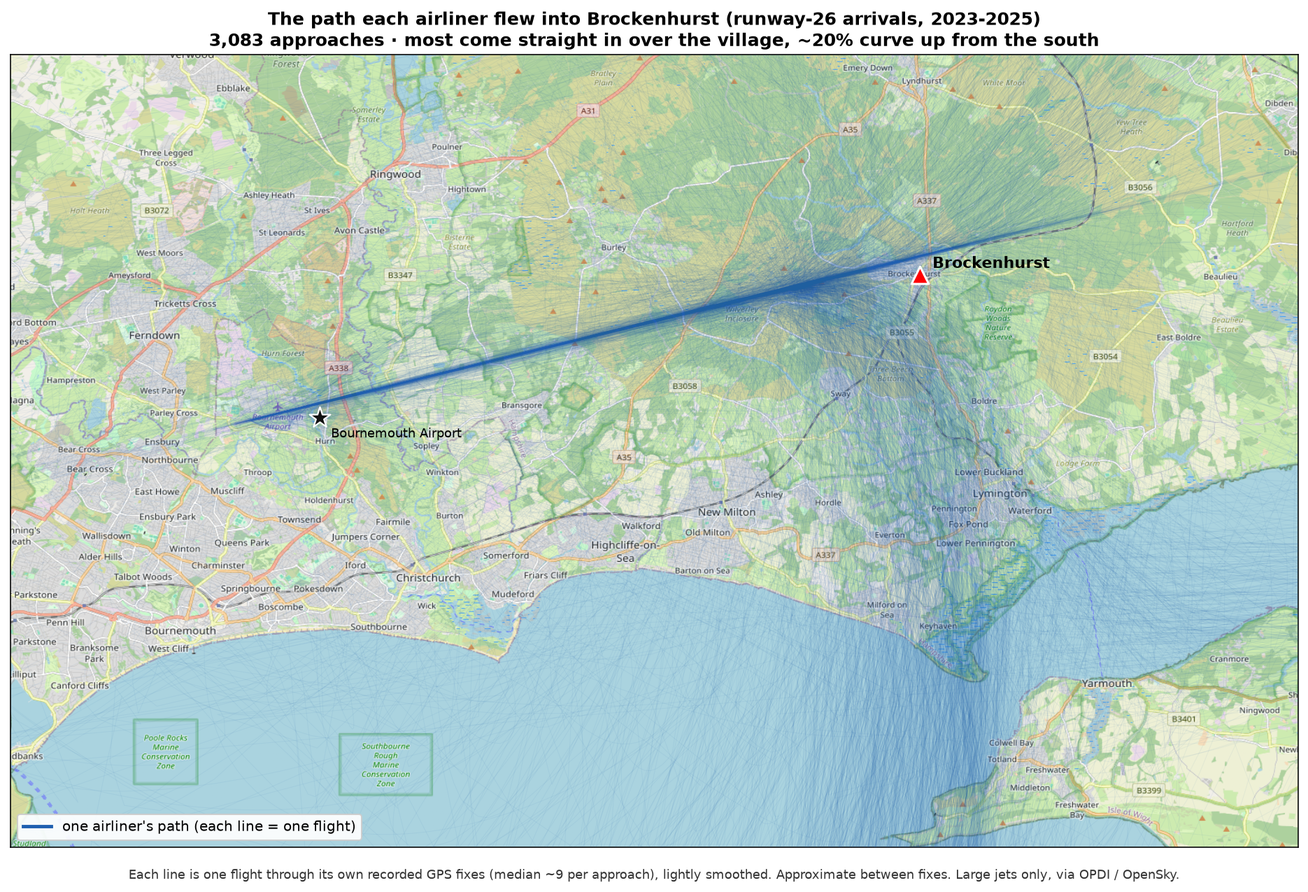
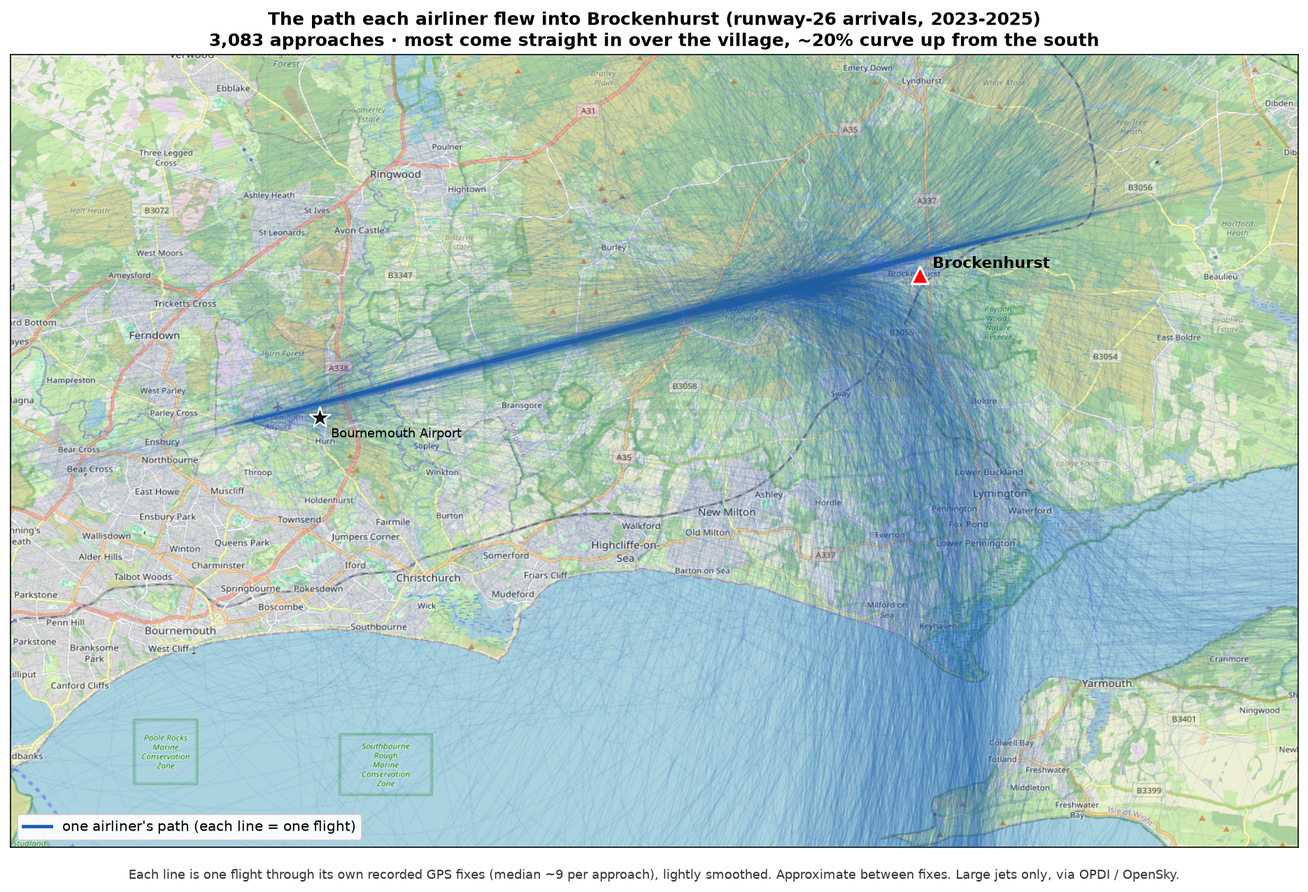
Widen rope-map lines so the corridor stands out more (wide + village zoom)
Claude-Session: https://claude.ai/code/session_01Wg3RMXhKJQE1Gdum3a4bvr

diff --git a/path_map.py b/path_map.py
@@ -121,7 +121,7 @@ def _draw(ax, a, from_se, box, zoom, lw, alpha_st, alpha_se, smooth_on=True,
 def build(out="outputs/sweep/brockenhurst_paths.png"):
     a, from_se = load()
     fig, ax = plt.subplots(figsize=(13, 8.8))
-    n_st, n_se = _draw(ax, a, from_se, (LON0, LON1, LAT0, LAT1), 12, 0.5, 0.06, 0.06, mono=True)
+    n_st, n_se = _draw(ax, a, from_se, (LON0, LON1, LAT0, LAT1), 12, 0.9, 0.06, 0.06, mono=True)
     tx, ty = merc(TLON, TLAT)
     ax.scatter([tx], [ty], marker="*", s=240, color="#111", edgecolors="white",
                linewidths=1.1, zorder=7)
@@ -151,7 +151,7 @@ def build_zoom(out="outputs/sweep/brockenhurst_paths_village.png"):
     a, from_se = load()
     box = (BLON - VHL, BLON + VHL, BLAT - VHT, BLAT + VHT)
     fig, ax = plt.subplots(figsize=(13, 9.2))
-    n_st, n_se = _draw(ax, a, from_se, box, 14, 0.7, 0.16, 0.16, smooth_on=False,
+    n_st, n_se = _draw(ax, a, from_se, box, 14, 1.2, 0.16, 0.16, smooth_on=False,
                        min_pts=2, clip_margin=0.02, mono=True)
     tot = n_se + n_st
     ax.set_title("Every airliner's path directly over Brockenhurst (runway-26 arrivals, 2023-2025)\n"
